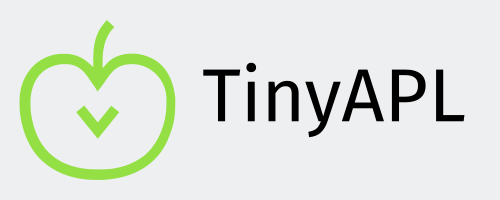
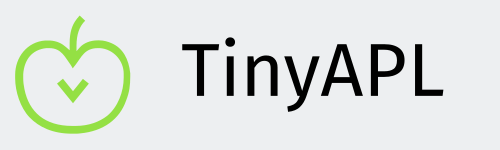
Remove HTML from descriptions, glyph images, shorter images

Changed region(s): [[0.36, 0.24, 0.93, 0.7467], [0.03, 0.1067, 0.36, 0.9067]]

diff --git a/docs/main.tsx b/docs/main.tsx
@@ -18,6 +18,7 @@ import { fullImageForPattern } from './images.ts';
 import { serveDir } from './deps/std/http.ts';
 import html, { h, HtmlOptions } from './deps/x/htm.ts';
 import { extensions, types } from './deps/std/media_types/_db.ts';
+import { stripHtml } from './deps/npm/string-strip-html.ts';
 
 types.set('tinyapl', 'text/plain');
 extensions.set('text/plain', [...extensions.get('text/plain')!, 'tinyapl']);
@@ -83,7 +84,7 @@ const infoPage = (info: Info) => render(<FullPage pages={pages}><InfoPage info={
 	title: `${info.name} - TinyAPL`,
 	meta: {
 		'og:title': `${info.name} - TinyAPL`,
-		'og:description': info.body.toString(),
+		'og:description': stripHtml(info.body.toString()).result,
 	}
 });
 
@@ -91,7 +92,7 @@ const primitivePage = (primitive: Primitive) => render(<FullPage pages={pages}><
 	title: `${primitive.name} - TinyAPL`,
 	meta: {
 		'og:title': `${primitive.name} - TinyAPL`,
-		'og:description': primitive.body.toString(),
+		'og:description': stripHtml(primitive.body.toString()).result,
 		'og:image': `/generated/images/primitive/${Object.entries(pages.primitives).find(([_, { name }]) => name === primitive.name)![0]}.png`,
 	}
 });
@@ -104,13 +105,18 @@ const quadPage = (quad: Quad) => render(<FullPage pages={pages}><QuadPage quad={
 	title: `${quad.name} - TinyAPL`,
 	meta: {
 		'og:title': `${quad.name} - TinyAPL`,
-		'og:description': quad.body.toString(),
+		'og:description': stripHtml(quad.body.toString()).result,
 		'og:image': `/generated/images/quad/${Object.entries(pages.quads).find(([_, { name }]) => name === quad.name)![0]}.png`,
 	}
 });
 
 const glyphPage = (glyph: Glyph) => render(<FullPage pages={pages}><GlyphPage glyph={glyph} /></FullPage>, {
 	title: `${glyph.glyph} ${glyph.name} - TinyAPL`,
+	meta: {
+		'og:title': `${glyph.glyph} ${glyph.name} - TinyAPL`,
+		'og:description': `${glyph.primitives.map(primitive => pages.primitives[primitive]!.name).join(' / ')}\n${stripHtml(glyph.body.toString()).result}`,
+		'og:image': `/generated/images/glyph/${Object.entries(pages.glyphs).find(([_, { name }]) => name === glyph.glyph)![0]}.png`,
+	}
 });
 
 const glyphIndexPage = () => render(<FullPage pages={pages}><Glyphs pages={pages} /></FullPage>, {
@@ -186,6 +192,8 @@ async function handler(req: Request) {
 			return new Response(await fullImageForPattern(pages.primitives[name].pattern), { headers: { 'Content-Type': 'image/png' } });
 		if (cat === 'quad' && name in pages.quads)
 			return new Response(await fullImageForPattern(pages.quads[name].pattern), { headers: { 'Content-Type': 'image/png' } });
+		if (cat === 'glyph' && name in pages.glyphs)
+			return new Response(await fullImageForPattern(pages.glyphs[name].glyph), { headers: { 'Content-Type': 'image/png' } });
 	}
 
 	for (const [dir, typ] of Object.entries(directories)) {

diff --git a/docs/generate_images.ts b/docs/generate_images.ts
@@ -1,7 +1,6 @@
 import * as tinyapl from './interpreters/latest/tinyapl.js';
 
 import { createCanvas, Image, Fonts } from './deps/jsr/gfx/canvas.ts';
-import { exists } from './deps/std/fs.ts'
 
 Fonts.register(await Deno.readFile('./assets/TinyAPL386.ttf'), 'TinyAPL386');
 
@@ -56,7 +55,7 @@ async function imageForPattern(pattern: string) {
 const banner = await Image.load('./assets/banner.png');
 
 export async function fullImageForPattern(pattern: string) {
-	const width = banner.width, height = 400;
+	const width = banner.width, height = 350;
 	const bottomHeight = banner.height, topHeight = height - bottomHeight;
 
 	const canvas = createCanvas(width, height);
@@ -67,6 +66,7 @@ export async function fullImageForPattern(pattern: string) {
 	context.drawImage(banner, 0, topHeight);
 
 	const patternImage = new Image(await imageForPattern(pattern));
+	await new Promise<void>(res => { patternImage.onload = () => { res(); } });
 	const scaleFactor = Math.min(width / patternImage.width, topHeight / patternImage.height);
 	context.drawImage(
 		patternImage, 

diff --git a/docs/precompile.tsx b/docs/precompile.tsx
@@ -21,6 +21,12 @@ for (const { pattern } of Object.values(pages.quads)) {
 	await Deno.writeFile(name, await fullImageForPattern(pattern));
 }
 
+for (const { glyph } of Object.values(pages.glyphs)) {
+	const name = imageName(glyph);
+	if (await exists(name)) await Deno.remove(name);
+	await Deno.writeFile(name, await fullImageForPattern(glyph));
+}
+
 await Deno.writeTextFile('pages.json', JSON.stringify({
 	index: { body: pages.index.toString() },
 	...Object.fromEntries(Object.entries(pages).filter(([k]) => k !== 'index').map(([k, v]: [string, Record<string, { body: JSX.Element }>]) => { return [ k, Object.fromEntries(Object.entries(v).map(([k1, v1]) => [ k1, { ...v1, body: v1.body.toString() } ])) ]; })),

diff --git a/docs/deps/npm/string-strip-html.ts b/docs/deps/npm/string-strip-html.ts
@@ -1,0 +1,1 @@
+export * from 'npm:string-strip-html@13.4.8'
